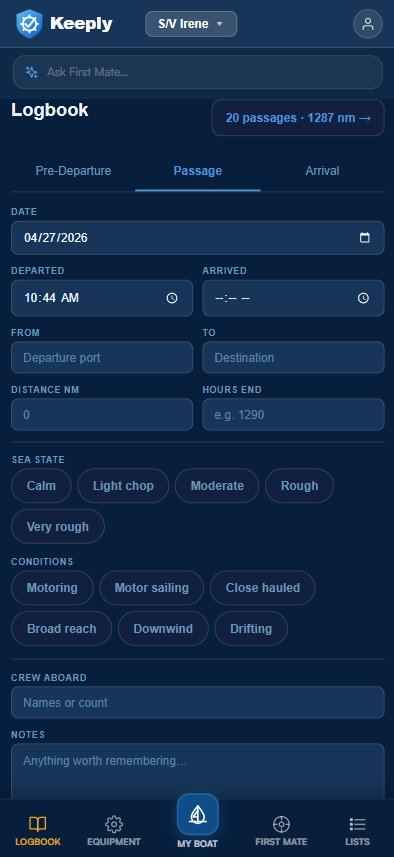
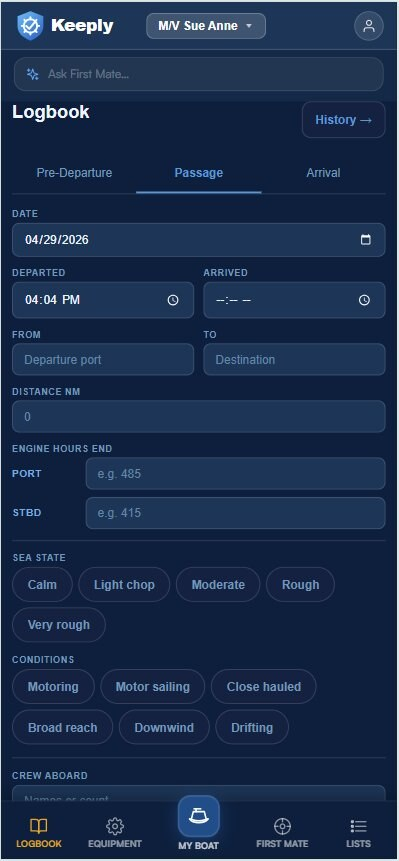
features: tighten Setup/Equipment/Repairs/Parts copy + swap Parts and Logbook screenshots for new Lists workflow and dual-engine ability

diff --git a/app/features/FeaturesClient.tsx b/app/features/FeaturesClient.tsx
@@ -307,8 +307,8 @@ const SECTIONS: Array<{
     id: 'setup',
     icon: 'setup',
     eyebrow: 'Setup',
-    title: 'Three minutes to start. Thirty to set up properly.',
-    body: 'Tell Keeply what boat you have and the AI seeds your vessel — the equipment, the maintenance items, and the things that make boats run. Three minutes gets you a real working system. A thirty-minute session of curating the details gets you completely set up. Automation makes this fast, and you stay in control of what gets recorded.',
+    title: 'Three minutes to start.',
+    body: 'Tell Keeply what boat you have and the AI seeds your vessel — the equipment, the maintenance items, and the things that make boats run. Three minutes gets you a real working system. A session of curating the details gets you completely set up. Automation makes this fast, and you stay in control of what gets recorded.',
     Visual: makeShot('/images/features/setup.jpg', 'Onboarding screen'),
   },
   {
@@ -324,7 +324,7 @@ const SECTIONS: Array<{
     icon: 'equipment',
     eyebrow: 'Equipment',
     title: 'Every piece of equipment on your boat with its own card.',
-    body: 'Make, model, year, photos, manuals, service log, parts. When you create a new equipment card, First Mate identifies the gear and builds the maintenance schedule for it — or enter it manually if you prefer. Either way, the equipment library is what makes everything else possible: Keeply knows your gear, so the maintenance schedule fits, the parts are right, and the answers are specific.',
+    body: 'Make, model, year, photos, manuals, service log, parts. When you create a new equipment card, First Mate identifies the gear and builds the maintenance schedule for it — or enter it manually if you prefer. Service intervals are fully customizable, with engines tracked by hours run. Either way, the equipment library is what makes everything else possible: Keeply knows your gear, so the maintenance schedule fits, the parts are right, and the answers are specific.',
     Visual: makeShot('/images/features/equipment.jpg', 'Equipment card'),
   },
   {
@@ -340,7 +340,7 @@ const SECTIONS: Array<{
     icon: 'repairs',
     eyebrow: 'Repairs',
     title: 'From open to closed, with photos and history.',
-    body: 'A repair tracker that does not pretend to be a maintenance task. Open a repair when something breaks, attach photos, link the affected equipment, log notes as you work it. Close it when fixed. Every closed repair stays in the history of that equipment — for you, your insurance, or the next owner.',
+    body: 'A repair tracker that does not pretend to be a maintenance task. Open a repair when something breaks, attach photos, link the affected equipment, log notes as you work it. Close it when fixed. Every closed repair stays in the history of that equipment.',
     Visual: makeShot('/images/features/repairs.jpg', 'Repair detail view'),
   },
   {
@@ -348,7 +348,7 @@ const SECTIONS: Array<{
     icon: 'parts',
     eyebrow: 'Parts',
     title: 'Find the right part. Order it without the hunt.',
-    body: 'Open any maintenance item or repair — Keeply already knows your equipment make and model. One tap searches major marine retailers for the exact part. Save parts to a shopping list and add to it as you go, so the next time you place an order, everything you need is in one cart.',
+    body: 'Open any maintenance item or repair — Keeply already knows your equipment make and model. One tap searches major marine retailers for the exact part. Save parts to a shopping list and add to it as you go, so the next time you place an order, everything you need is in one list.',
     Visual: makeShot('/images/features/parts.jpg', 'Find parts results'),
   },
   {
